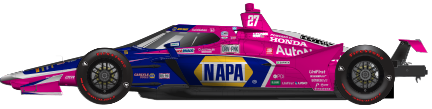
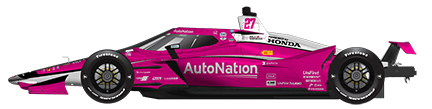
Updated for 2023

diff --git a/src/components/BigPrize.jsx b/src/components/BigPrize.jsx
@@ -7,195 +7,142 @@ import { Results } from './Results'
 import './BigPrize.css';
 import { Container, Row, Col } from 'react-bootstrap'
 
-const DriverNames = {
+const DriverNames = [
     // Row 1
-    SCOTT: {
-        name: "Scott Dixon",
-        number: "9",
-    },
-    ALEX: {
+    {
         name: "Alex Palou",
         number: "10",
     },
-    VEEKAY: {
+    {
         name: "Rinus VeeKay",
         number: "21",
     },
+    {
+        name: "Felix Rosenqvist",
+        number: "6",
+    },
     // Row 2
-    ED: {
-        name: "Ed Carpenter",
-        number: "33",
+    {
+        name: "Santino Ferrucci",
+        number: "14",
     },
-    MARCUS: {
-        name: "Marcus Ericsson",
-        number: "8",
-    },
-    TONY: {
-        name: "Tony Kanaan",
-        number: "1",
-    },
-    // Row 3
-    PATO: {
+    {
         name: "Pato O'Ward",
         number: "5",
     },
-    FELIX: {
-        name: "Felix Rosenqvist",
-        number: "7",
+    {
+        name: "Scott Dixon",
+        number: "9"
     },
-    ROMAIN: {
-        name: "Romain Grosjean",
-        number: "28"
-    },
-    // Row 4
-    TAKUMA: {
-        name: "Takuma Sato",
-        number: "51",
-    },
-    WILL: {
-        name: "Will Power",
-        number: "12",
-    },
-    JIMMIE : {
-        name: "Jimmie Johnson",
-        number: "48"
-    },
-    // Row 5
-    DAVID: {
-        name: "David Malukas",
-        number: "18"
-    },
-    JOSEF: {
-        name: "Josef Newgarden",
-        number: "2",
-    },
-    SANTINO: {
-        name: "Santino Ferrucci",
-        number: "23",
-    },
-    // Row 6
-    SIMON: {
-        name: "Simon Pagenaud",
-        number: "60",
-    },
-    JR: {
-        name: "JR Hildebrand",
-        number: "11",
-    },
-    CONOR: {
-        name: "Conor Daly",
-        number: "20",
-    },
-    // Row 7
-    CALLUM: {
-        name: "Callum Ilott",
-        number: "24"
-    },
-    ALEXANDER: {
+    {
         name: "Alexander Rossi",
-        number: "27",
+        number: "7"
     },
-    GRAHAM: {
-        name: "Graham Rahal",
-        number: "15",
+    {
+        name: "Takuma Sato",
+        number: "11"
     },
-    // Row 8
-    SAGE: {
-        name: "Sage Karam",
-        number: "24",
+    {
+        name: "Tony Kanaan",
+        number: "66"
     },
-    MARCO: {
-        name: "Marco Andretti",
-        number: "98"
+    {
+        name: "Marcus Ericsson",
+        number: "8"
     },
-    DEVLIN: {
-        name: "Devlin DeFrancesco",
-        number: "29"
+    {
+        name: "Benjamin Pedersen",
+        number: "55"
     },
-    // Row 9
-    COLTON: {
-        name: "Colton Herta",
-        number: "26",
+    {
+        name: "Will Power",
+        number: "12"
     },
-    SCOTT_MC: {
+    {
+        name: "Ed Carpenter",
+        number: "33"
+    },
+    {
         name: "Scott McLaughlin",
         number: "3"
     },
-    HELIO: {
-        name: "Helio Castroneves",
-        number: "06",
-    },
-    // Row 10
-    KYLE: {
+    {
         name: "Kyle Kirkwood",
-        number: "14"
+        number: "27"
     },
-    DALTON: {
-        name: "Dalton Kellett",
-        number: "4",
+    {
+        name: "Conor Daly",
+        number: "20"
     },
-    JUAN: {
-        name: "Juan Pablo Montoya",
-        number: "6"
+    {
+        name: "Josef Newgarden",
+        number: "2"
     },
-    // Row 11
-    CHRISTIAN: {
+    {
+        name: "Ryan Hunter-Reay",
+        number: "23"
+    },
+    {
+        name: "Romain Grosjean",
+        number: "28"
+    },
+    {
+        name: "Helio Castroneves",
+        number: "06"
+    },
+    {
+        name: "Colton Herta",
+        number: "26"
+    },
+    {
+        name: "Simon Pagenaud",
+        number: "60"
+    },
+    {
+        name: "David Malukas",
+        number: "18"
+    },
+    {
+        name: "Marco Andretti",
+        number: "98"
+    },
+    {
+        name: "Stefan Wilson",
+        number: "24"
+    },
+    {
+        name: "Devlin DeFrancesco",
+        number: "29"
+    },
+    {
+        name: "Agustin Canapino",
+        number: "78"
+    },
+    {
+        name: "Callum Ilot",
+        number: "77"
+    },
+    {
+        name: "RC Enerson",
+        number: "50"
+    },
+    {
+        name: "Katherine Legge",
+        number: "44"
+    },
+    {
         name: "Christian Lundgaard",
-        number: "30"
-    },
-    JACK: {
-        name: "Jack Harvey",
         number: "45"
     },
-    STEFAN: {
-        name: "Stefan Wilson",
-        number: "25"
+    {
+        name: "Sting Ray Robb",
+        number: "51"
     },
-
-    // PREVIOUS DRIVERS
-    // RYAN: {
-    //     name: "Ryan Hunter-Reay",
-    //     number: 28,
-    // },
-    // JAMES_HINCH: {
-    //     name: "James Hinchcliffe",
-    //     number: 29,
-    // },
-    
-   
-    // SPENCER: {
-    //     name: "Spencer Pigot",
-    //     number: 45,
-    // },
-    // ZACH: {
-    //     name: "Zach Veach",
-    //     number: 26,
-    // },
-    // OLIVER: {
-    //     name: "Oliver Askew",
-    //     number: 7,
-    // },
-    // FERNANDO: {
-    //     name: "Fernando Alonso",
-    //     number: 66,
-    // },
-    // JAMES: {
-    //     name: "James Davison",
-    //     number: 51,
-    // },
-    // CHARLIE: {
-    //     name: "Charlie Kimball",
-    //     number: 4,
-    // },
-    // MAX: {
-    //     name: "Max Chilton",
-    //     number: 59,
-    // },
-    // BEN: {
-    //     name: "Ben Hanley",
-    //     number: 81,
-    // }
-}
+    {
+        name: "Jack Harvey",
+        number: "30"
+    },
+]
 
 const Page = {
     INPUT: "input",
@@ -209,8 +156,8 @@ export class BigPrize extends Component {
         this.state = {
             page: Page.INPUT,
             participants: [],
-            drivers: Object.keys(DriverNames).map((driver, idx) => {
-                return {name: DriverNames[driver].name, number:  DriverNames[driver].number, selected: false}
+            drivers: DriverNames.map(({name, number}, idx) => {
+                return {name: name, number:  number, selected: false}
             }),
             currentUser: null,
             selectionNumber: 1

diff --git a/src/components/Drivers.jsx b/src/components/Drivers.jsx
@@ -11,13 +11,21 @@ export class Drivers extends React.Component {
     renderDrivers() {
         return this.props.drivers.map((driver, idx) => {
             const imgSrc = `/img/cars/${driver.number}.png`
+            console.log(idx);
             return (
-                <Col md={4} key={idx} className="driver">
-                    <Button className="driver-button" name={driver.name} disabled={driver.selected} onClick={this.props.selectDriver}>
-                        #{driver.number} {driver.name}
-                        <img style={{width: "100%"}}src={imgSrc} name={driver.name} alt={driver.name}></img>
-                    </Button>
-                </Col>
+                <> 
+                    {(idx === 0 || idx % 3 === 0) && (
+                        <Col md={12} style={{fontSize: '1.25rem', marginBottom: '4px'}}>
+                            Row {(idx /  3) +1 }
+                        </Col>
+                    )}
+                    <Col md={4} key={idx} className="driver">
+                        <Button className="driver-button" name={driver.name} disabled={driver.selected} onClick={this.props.selectDriver}>
+                            #{driver.number} {driver.name}
+                            <img style={{width: "100%"}}src={imgSrc} name={driver.name} alt={driver.name}></img>
+                        </Button>
+                    </Col>
+                </>
             )
         })
     }
